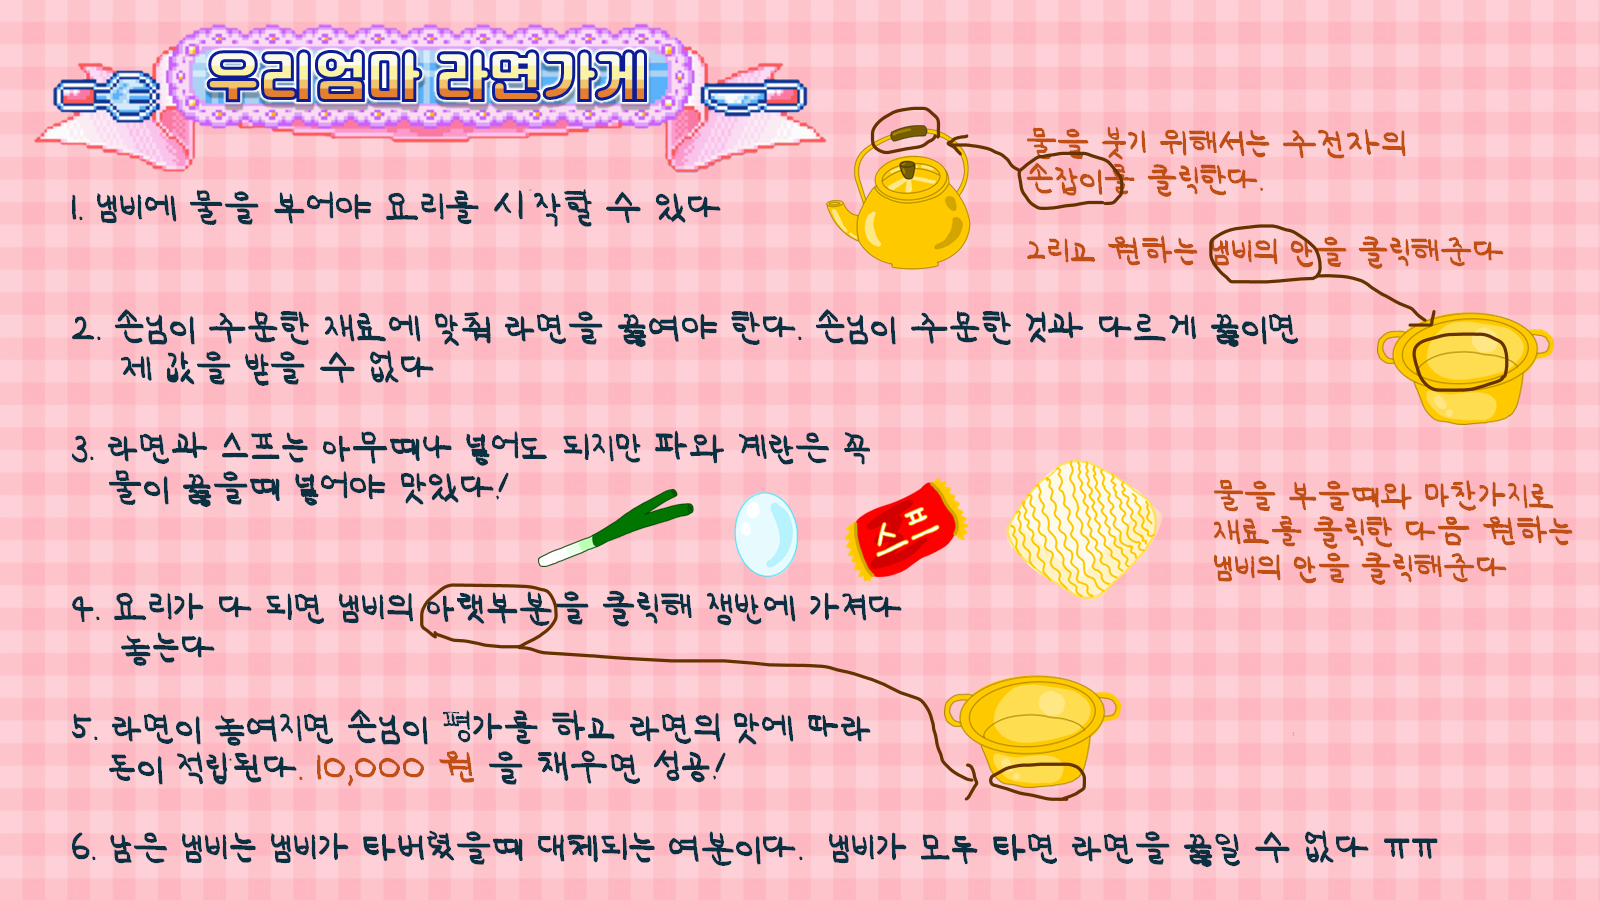
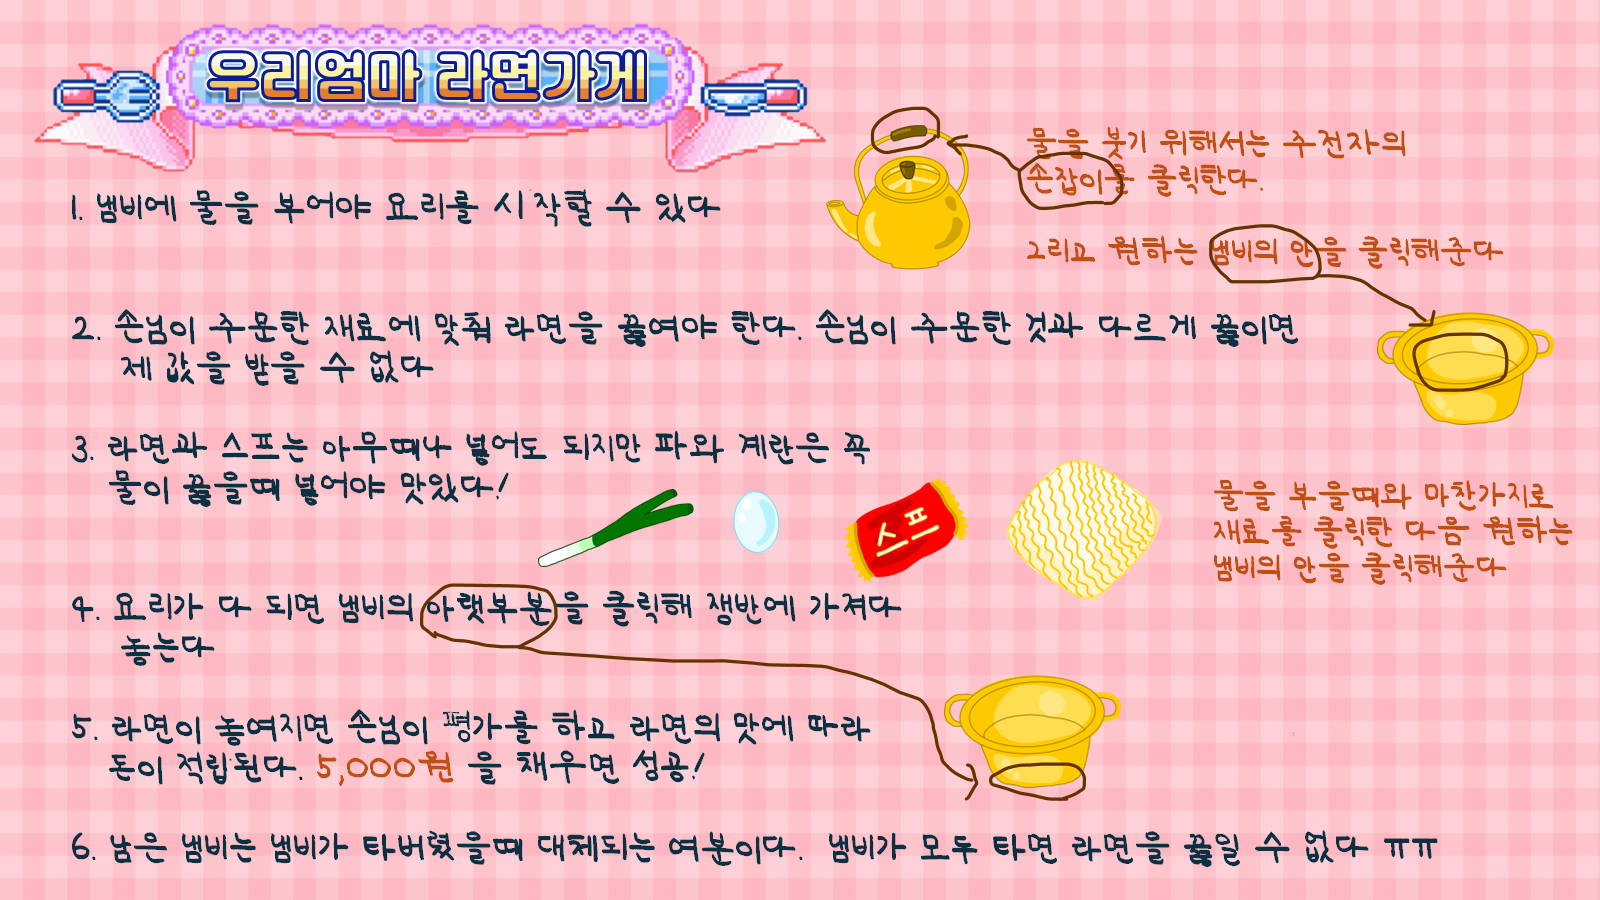
게임 규칙 변경

Changed region(s): [[0.1875, 0.8089, 0.4688, 0.8711], [0.4375, 0.5289, 0.5, 0.6533]]

diff --git a/pot.py b/pot.py
@@ -45,8 +45,8 @@ class Pot:
             self.x, self.y,  # 그릴 위치 (x, y)
             self.width, self.height  # 그릴 크기 (width, height)
         )
-        draw_rectangle(*self.get_bb())
-        draw_rectangle(*self.get_move_bb())
+        #draw_rectangle(*self.get_bb())
+        #draw_rectangle(*self.get_move_bb())
 
     def get_bb(self):
         return self.x - self.bb_x, self.y - self.bb_y + 20, self.x + self.bb_x, self.y + self.bb_y + 20

diff --git a/play_mode.py b/play_mode.py
@@ -240,7 +240,7 @@ def update():
         timer.effect.__del__()
         game_world.remove_all_objects()
         game_world.clear()
-        if game.money >= 10000 :
+        if game.money >= 5000 :
             win_mode.money = game.money
             game_framework.change_mode(win_mode)
         else:
